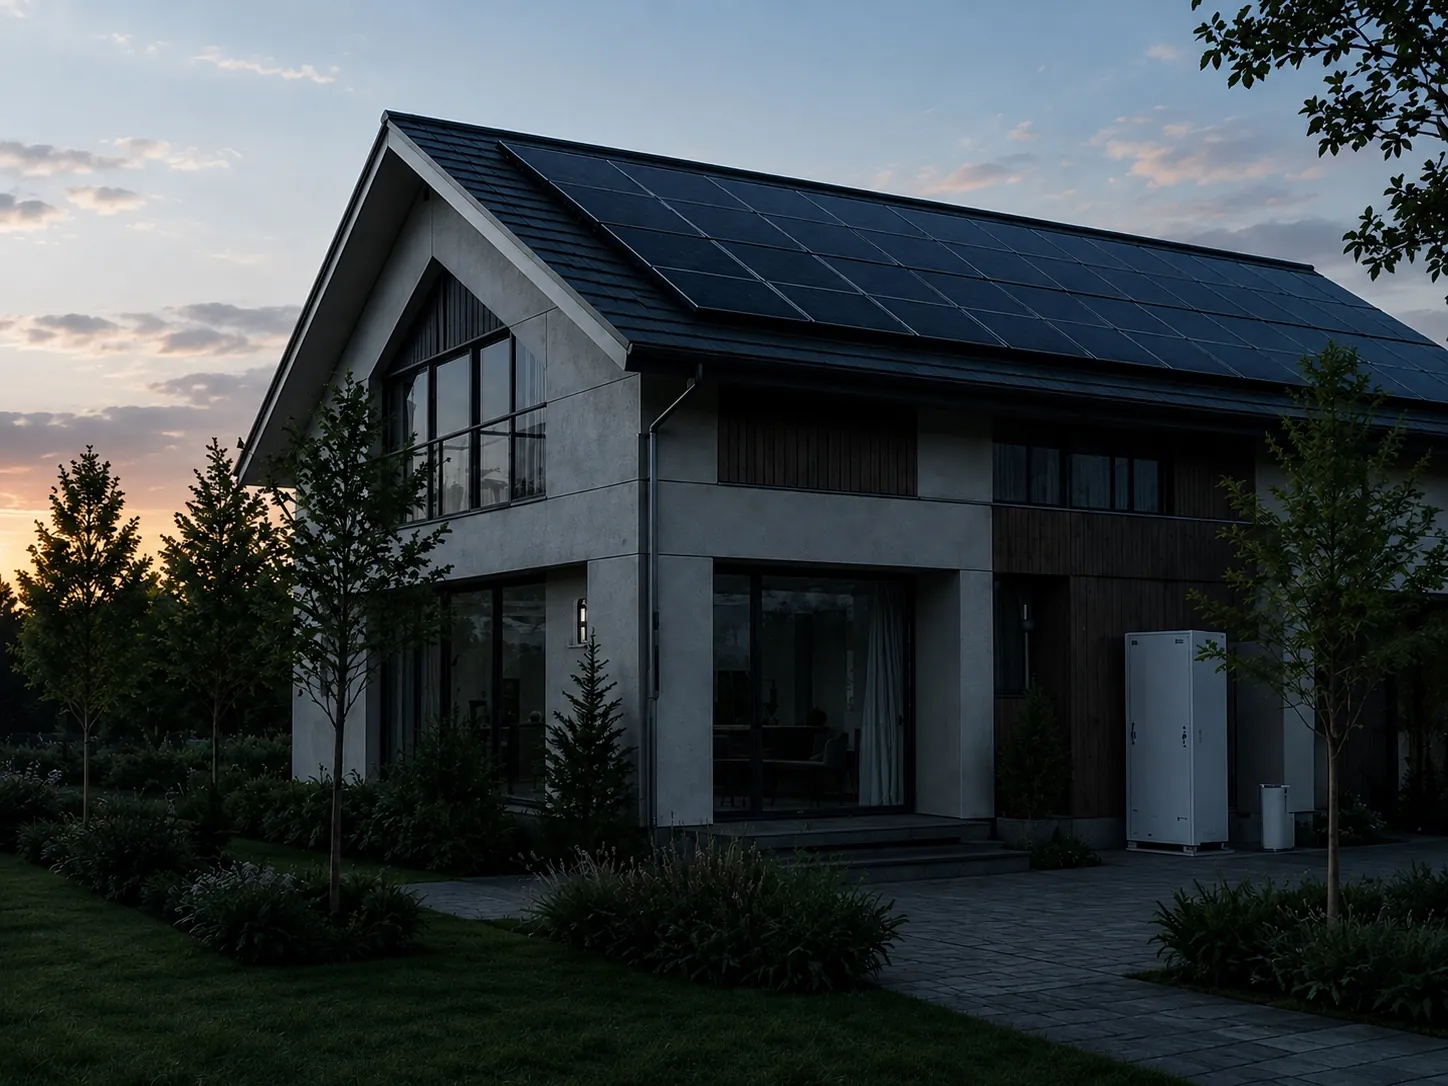
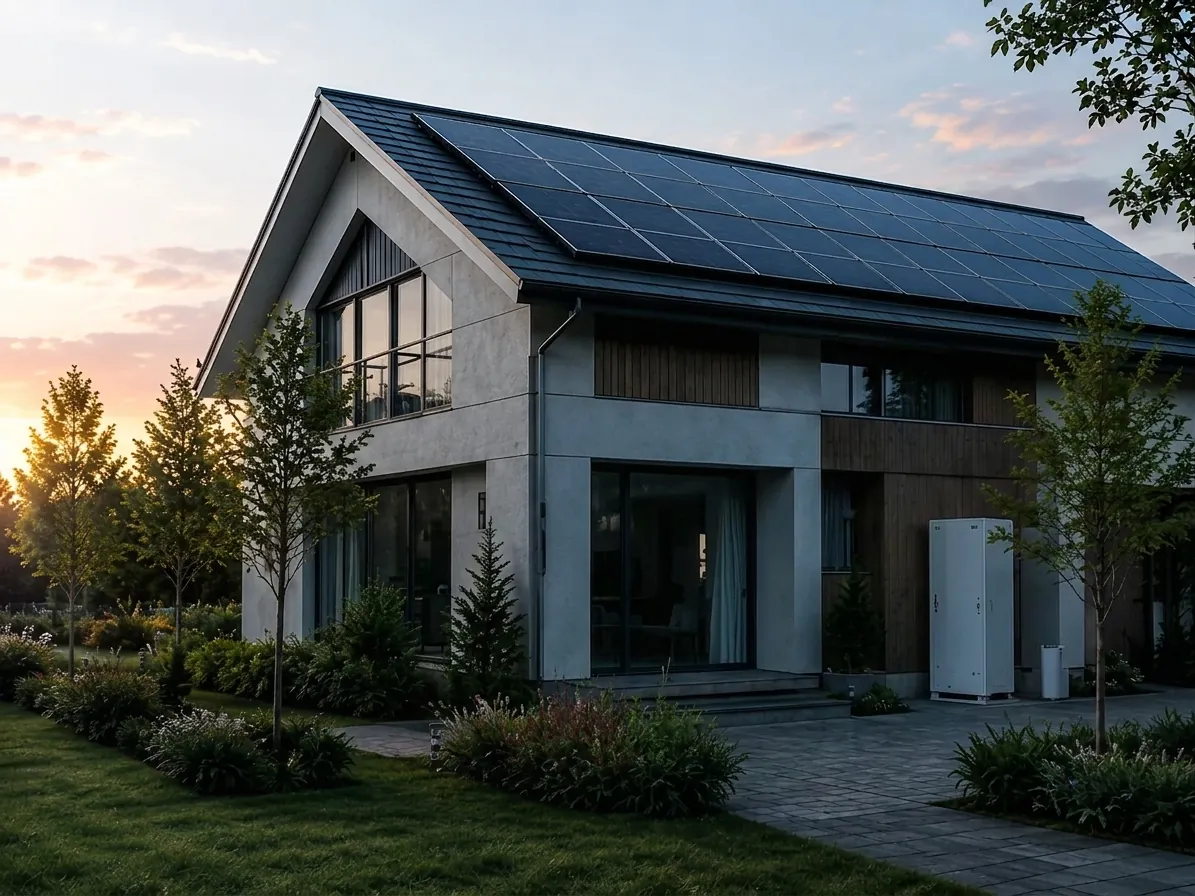
feat: hero描画時に電気をつけるアニメーション

diff --git a/app/(lp)/solar-battery/_Hero.tsx b/app/(lp)/solar-battery/_Hero.tsx
@@ -1,6 +1,19 @@
+'use client'
+
+import { motion } from '@/app/motion'
 import { ArrowRight, Calculator } from 'lucide-react'
+import { useEffect, useRef } from 'react'
 
 export const _Hero = () => {
+  const refImgLight = useRef<HTMLImageElement>(null)
+
+  useEffect(() => {
+    const il = refImgLight.current
+    if (il) {
+      motion.to(il, 2, 'out', { opacity: 1 })
+    }
+  }, [])
+
   return (
     <section className="mx-auto grid min-h-[720px] w-full max-w-[1600px] overflow-hidden bg-[#f8f9f5] xl:grid-cols-[44%_56%]">
       <div className="relative z-10 flex flex-col justify-center px-5 pb-12 pt-28 sm:px-8 lg:px-10 lg:pb-16 lg:pt-32 xl:pl-[max(40px,calc((100vw-1440px)/2+40px))]">
@@ -77,7 +90,10 @@ export const _Hero = () => {
           width="1448"
         />
         <img
-          alt="太陽光パネルと蓄電池を備えた住宅"
+          ref={refImgLight}
+          style={{ opacity: 0 }}
+          alt=""
+          aria-hidden="true"
           className="absolute inset-0 size-full object-cover object-center"
           decoding="async"
           fetchPriority="high"
